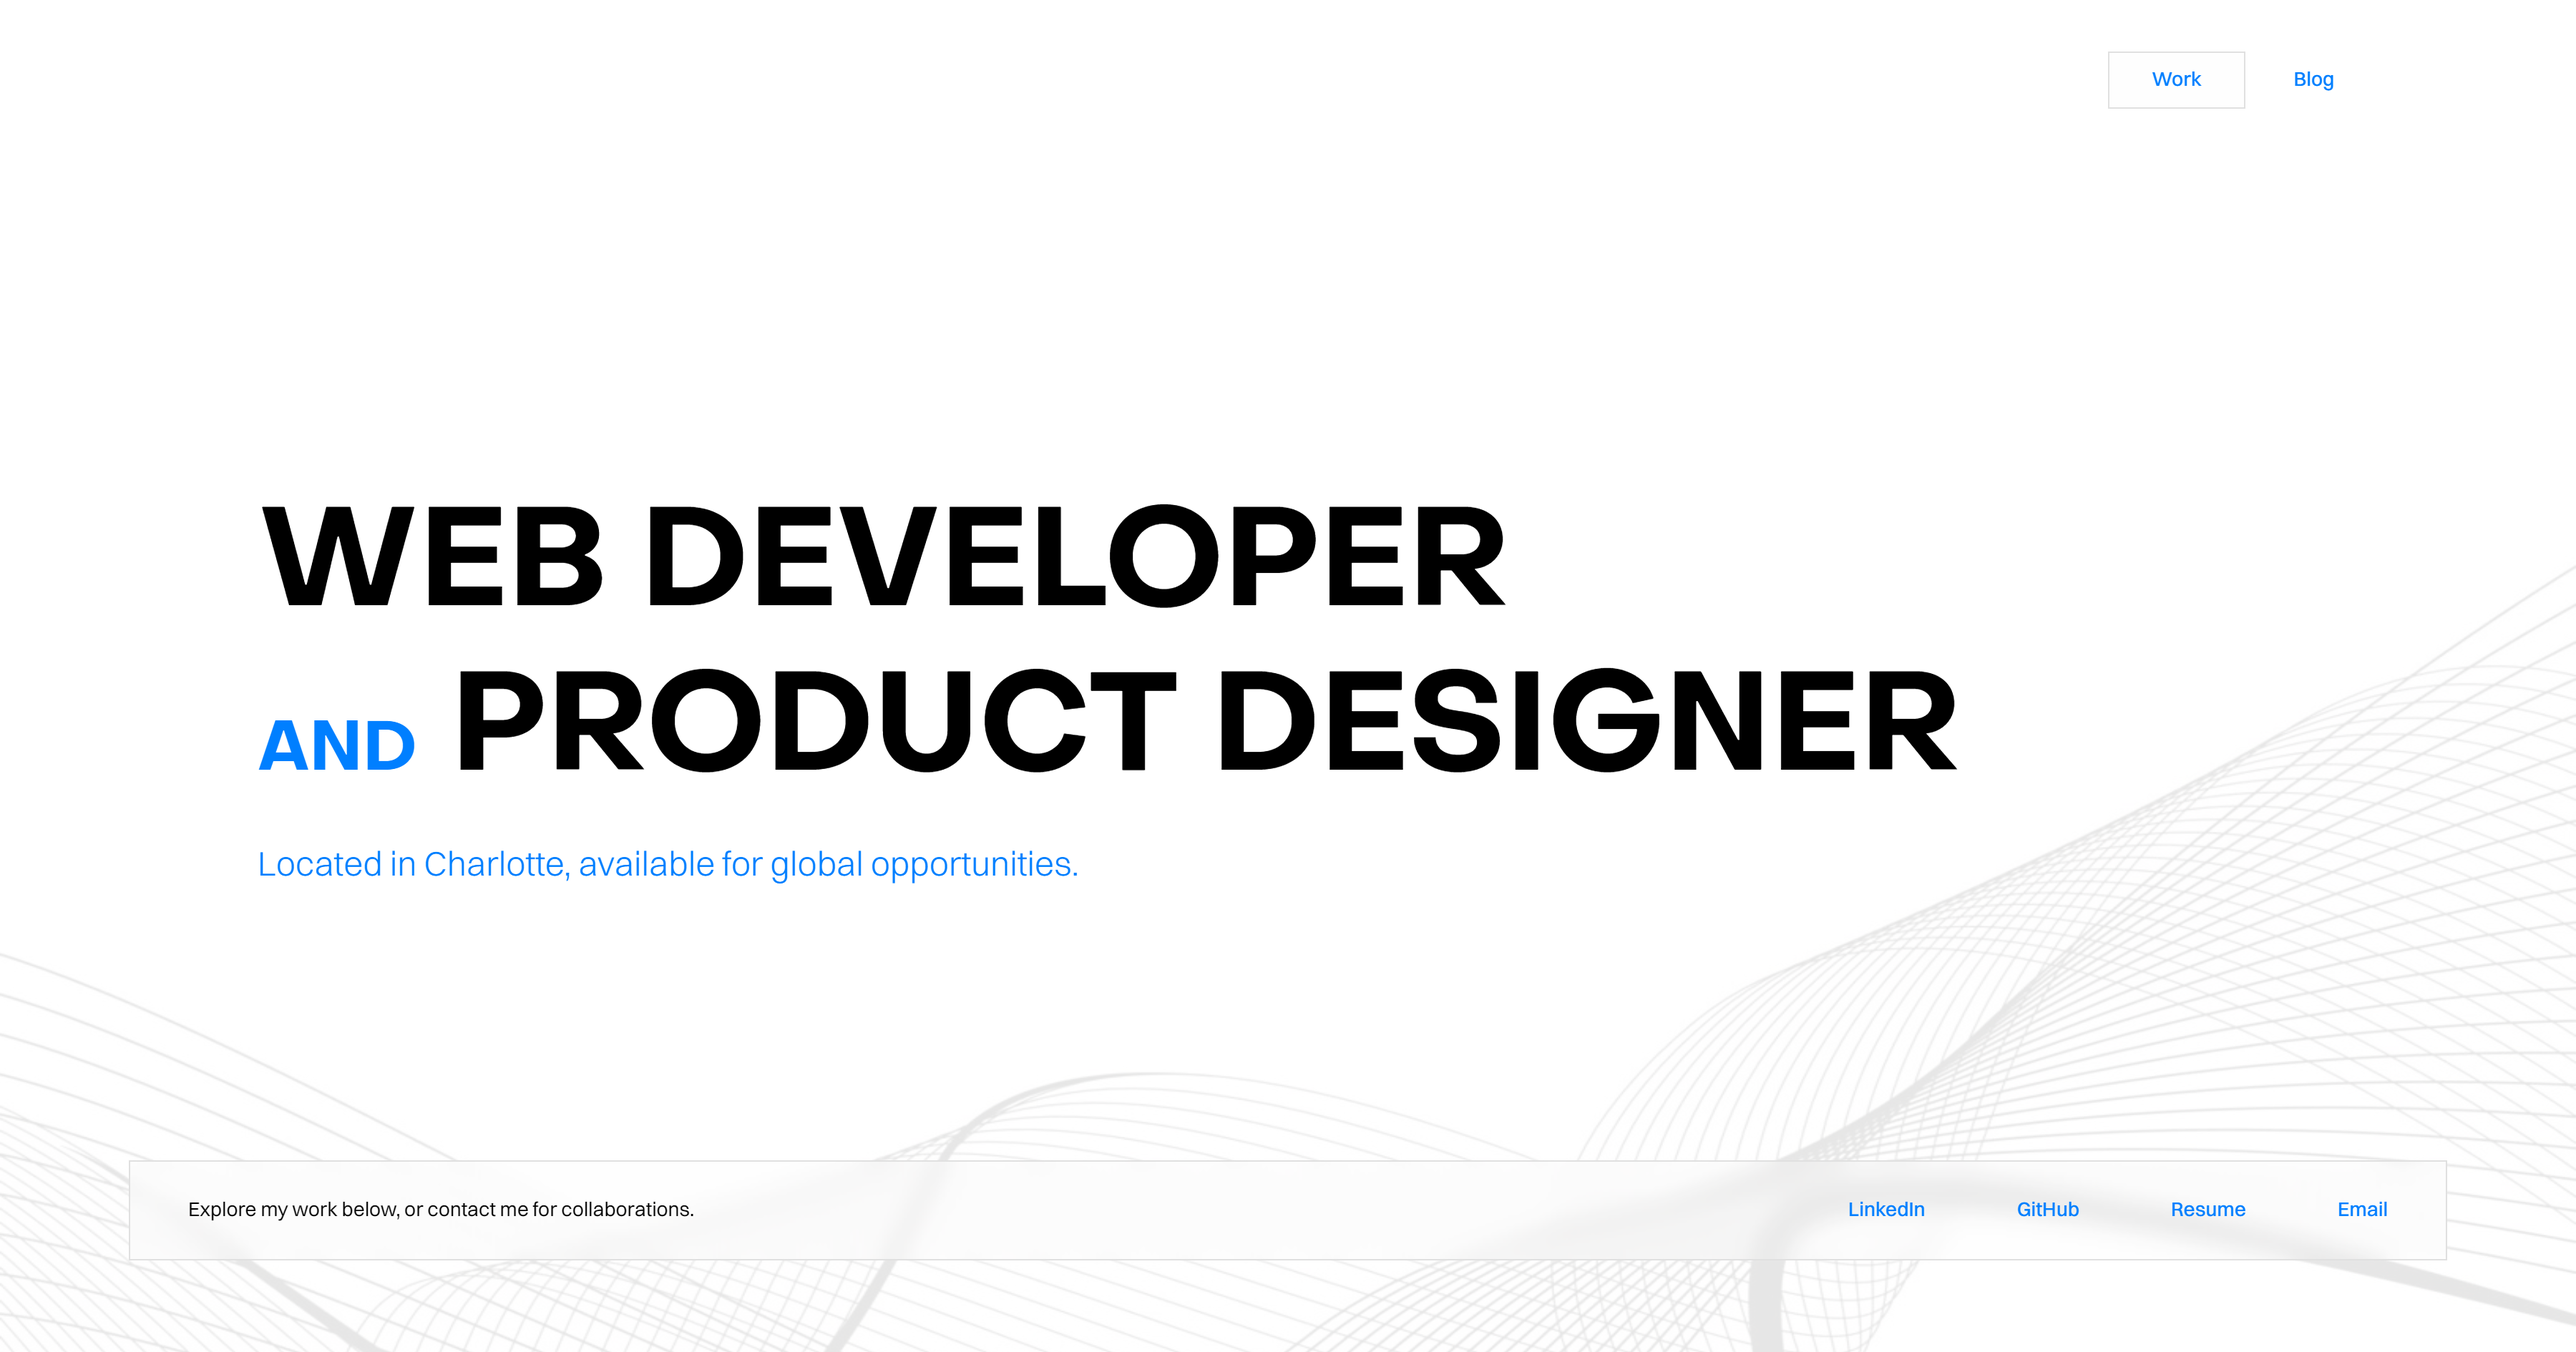
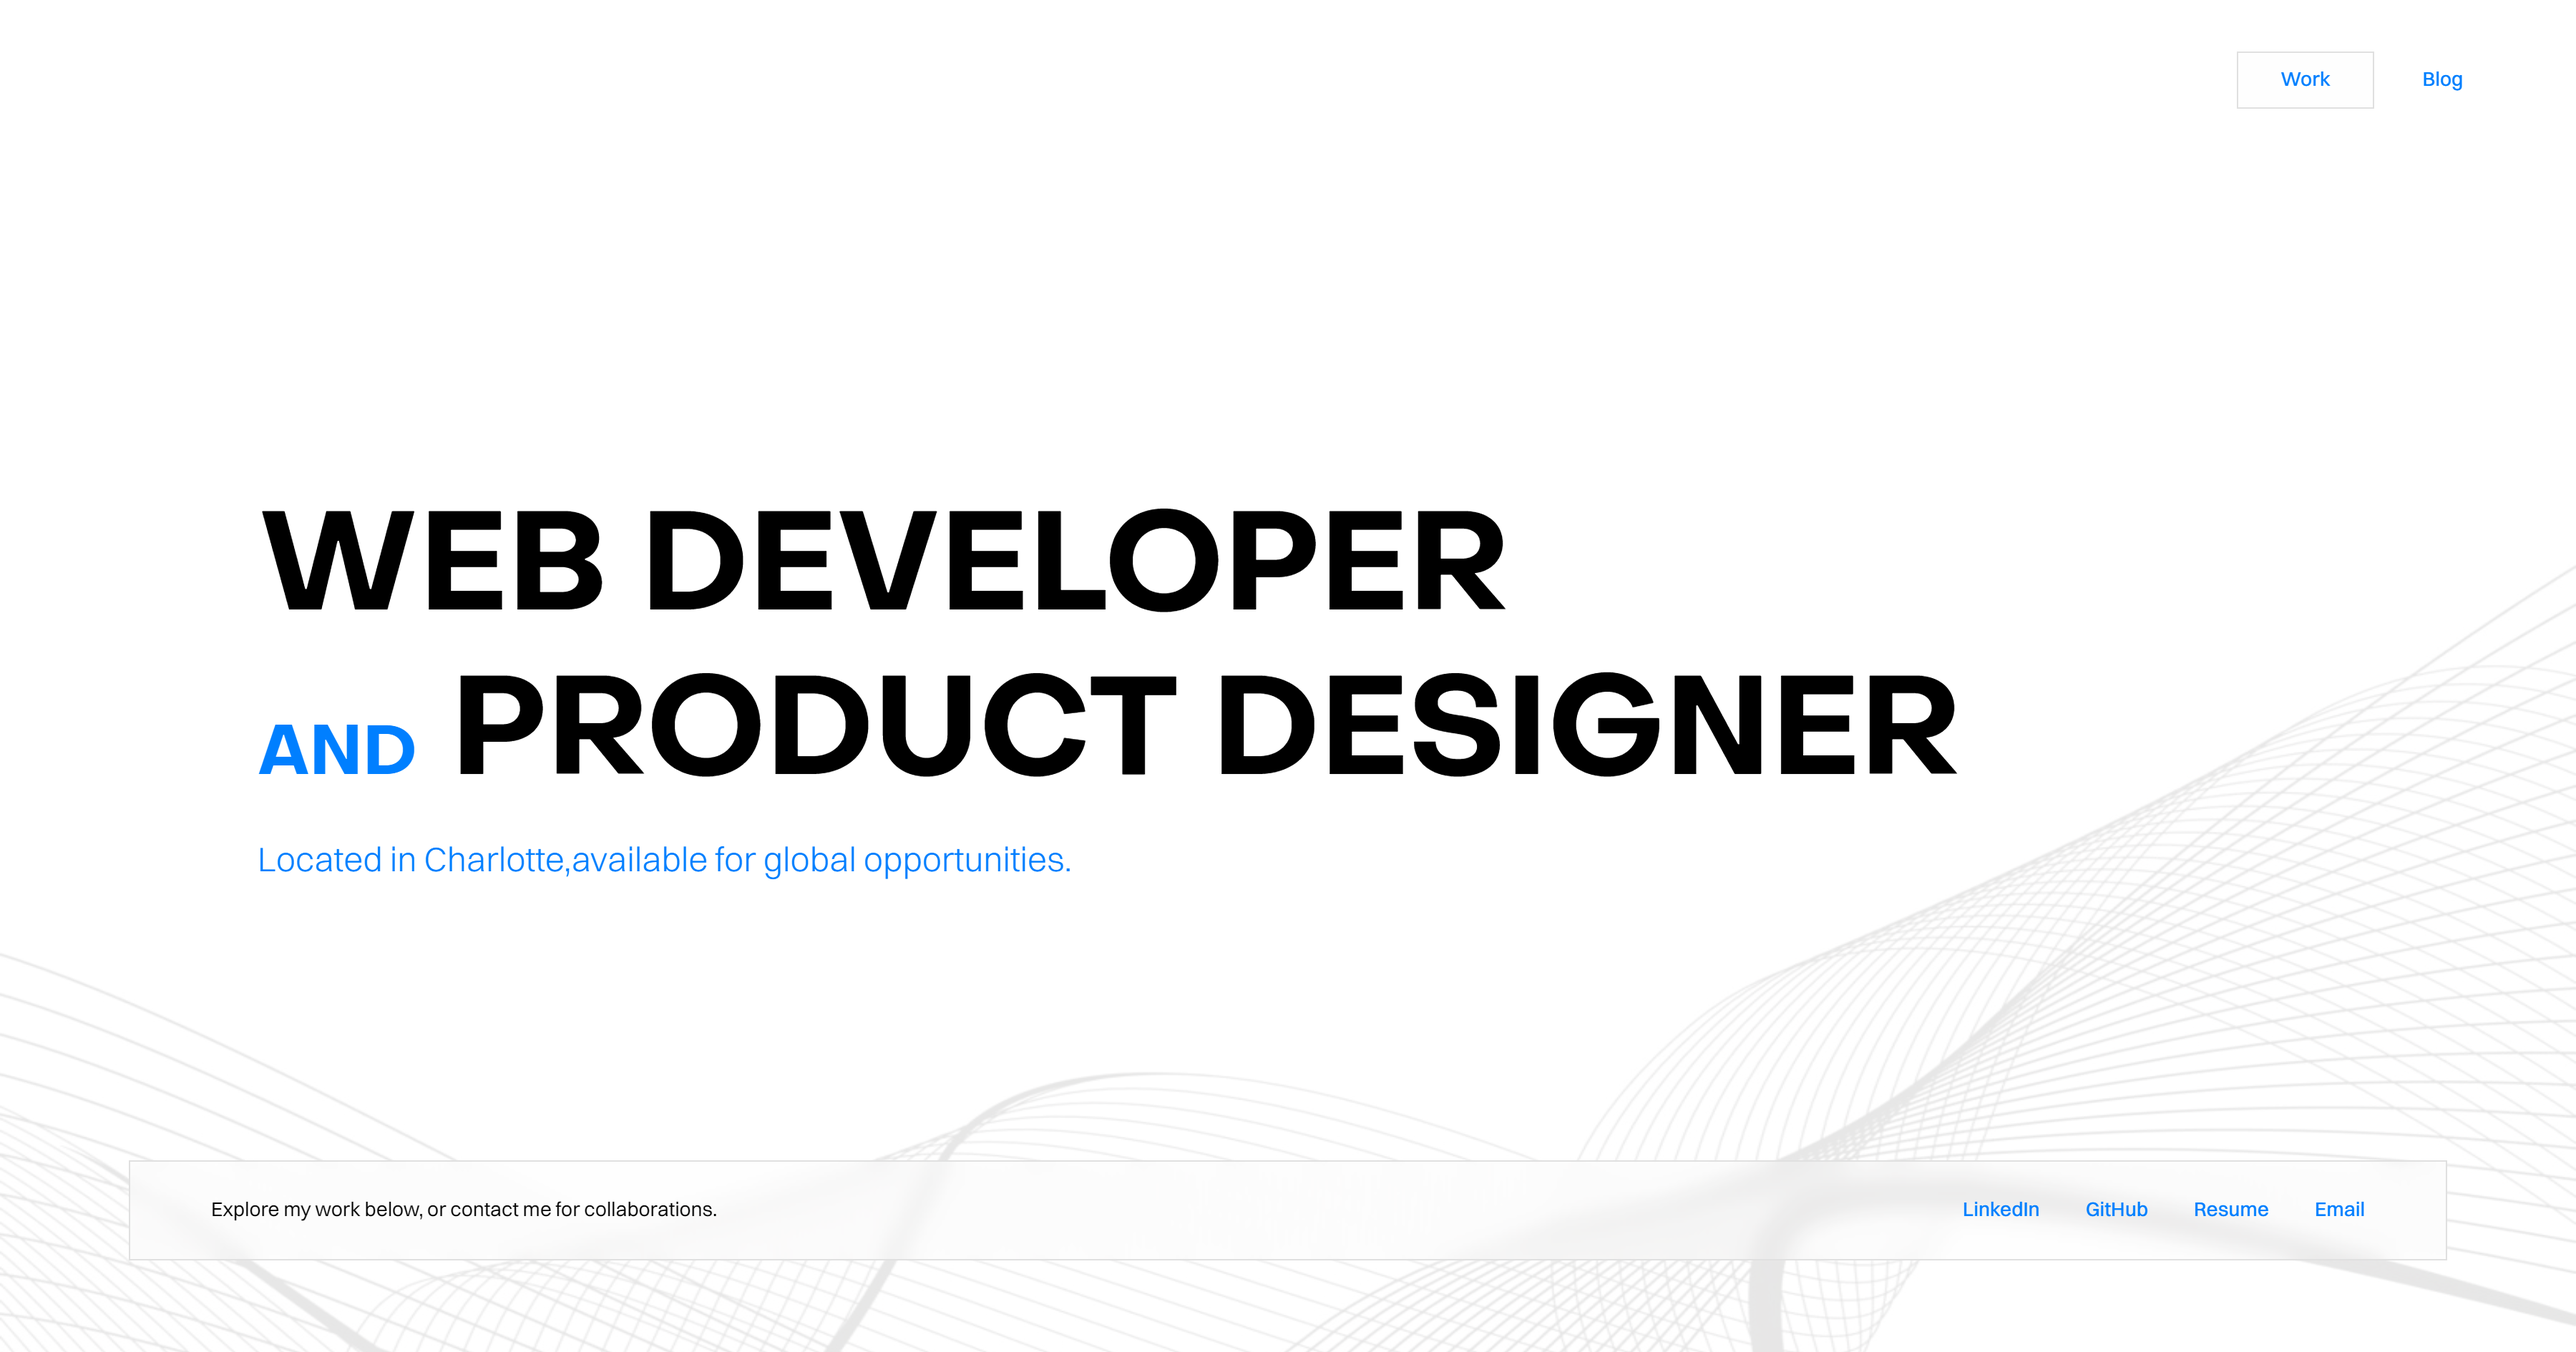
+

diff --git a/src/app/globals.css b/src/app/globals.css
@@ -49,13 +49,13 @@
 
   h1 {
     line-height: 1;
-    font-size: clamp(32px, 6vw, 96px);
+    font-size: clamp(28px, 6vw, 96px);
     font-weight: 300;
   }
 
   h2 {
     line-height: 1.4;
-    font-size: clamp(24px, 8vw, 48px);
+    font-size: clamp(20px, 4vw, 48px);
     font-weight: 300;
     color: #007FFF;
   }
@@ -102,7 +102,7 @@
     display: flex;
     justify-content: right;
     align-items: center;
-    width: 85%;
+    width: 95%;
   }
 
   .nav-slider {
@@ -279,7 +279,7 @@
   }
 
   .social-btn-holder {
-    gap: 1rem 2rem;
+    gap: 1rem 1rem;
     display: flex;
     width: fit-content;
     justify-content: center;
@@ -291,10 +291,13 @@
     display: none;
   }
 
+  .break {
+    display: block;
+  }
+
   .footer-holder {
     display: flex;
     justify-content: center;
-    padding-block: 1.5rem;
     backdrop-filter: blur(8px);
     -webkit-backdrop-filter: blur(8px);
     border: 1px solid #e0e0e0;
@@ -307,15 +310,17 @@
     width: 95%;
     display: flex;
     justify-content: center;
-    align-items: center;
+    align-items: flex-start;
     flex-wrap: wrap;
     gap: 1rem 2rem;
     flex-direction: column;
+    padding: 1rem;
+    padding-block: 1.5rem;
 
-    a,
+    /* a,
     p {
       text-align: right;
-    }
+    } */
   }
 
   .embed-responsive {
@@ -362,6 +367,10 @@
     color: #007FFF;
   }
 
+  .break {
+    display: none;
+  }
+
   .footer-holder {
     width: 90%;
   }
@@ -380,6 +389,10 @@
     width: 80%;
     margin-top: 8%;
   }
+
+  .social-btn-holder {
+    gap: 1rem 2rem;
+  }
 }
 
 @media (min-width: 999px) {
@@ -387,10 +400,6 @@
     max-width: 960px;
     width: 45%;
     padding: 3rem;
-  }
-
-  .social-btn-holder {
-    gap: 1rem 4rem;
   }
 }
 

diff --git a/src/app/page.tsx b/src/app/page.tsx
@@ -56,9 +56,7 @@ export default function Home() {
 
       <div className="nav" ref={nav}>
         <div className="nav-holder">
-          <strong className="logo">
-            {/* Justin Davenport */}
-            </strong>
+          <strong className="logo">{/* Justin Davenport */}</strong>
           <div className="nav-nav">
             <div className="nav-sub">
               <div className="nav-links">
@@ -109,18 +107,20 @@ export default function Home() {
                 </strong>{" "}
                 PRODUCT DESIGNER
               </h1>
-              <br />
-              <h2 style={{ fontSize: "clamp(20px, 2vw, 24px)" }}>
-                Located in Charlotte, available for global opportunities.
+              <h2
+                style={{
+                  fontSize: "clamp(16px, 4vw, 24px)",
+                  marginTop: "1rem",
+                }}
+              >
+                Located in Charlotte,
+                <br className="break" />
+                available for global opportunities.
               </h2>
             </div>
             <div className="footer-holder" id="fade">
               <div className="footer">
-                <p
-
-                >
-                  Explore my work below, or contact me for collaborations.
-                </p>
+                <p>Explore my work below, or contact me for collaborations.</p>
                 <div className="social-btn-holder">
                   <Link
                     href="https://www.linkedin.com/in/justindavenport99/"
